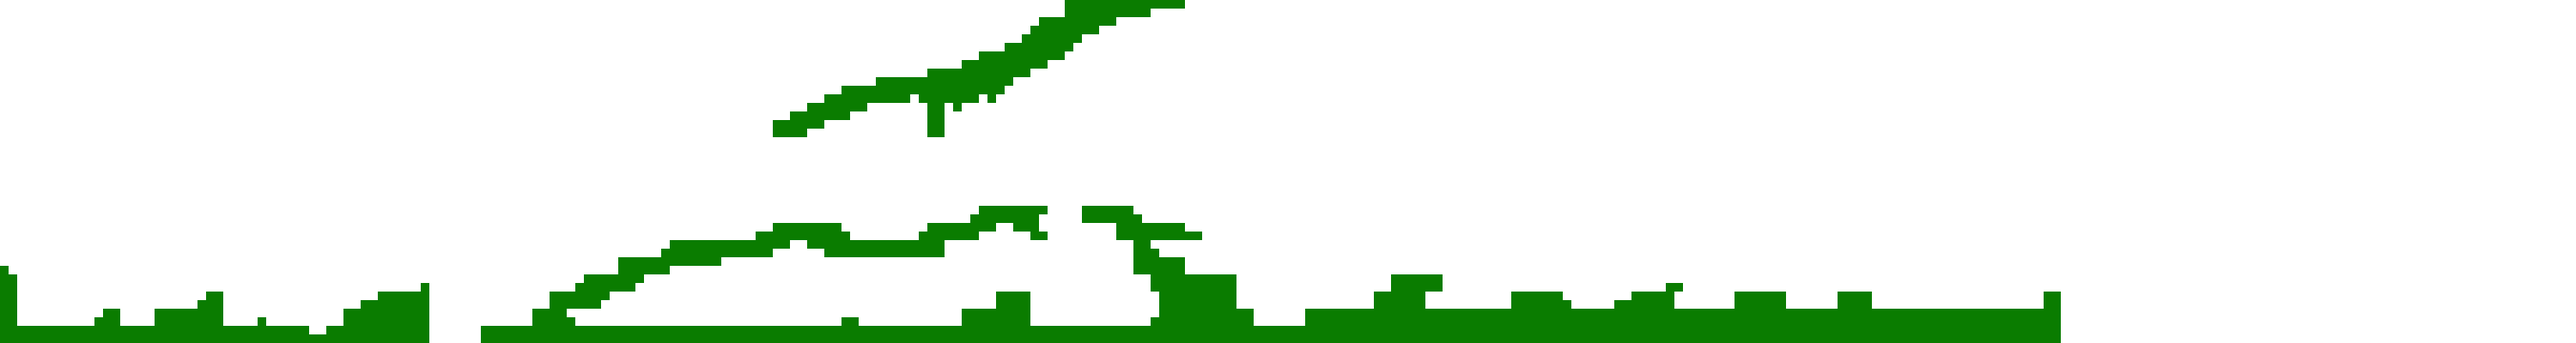
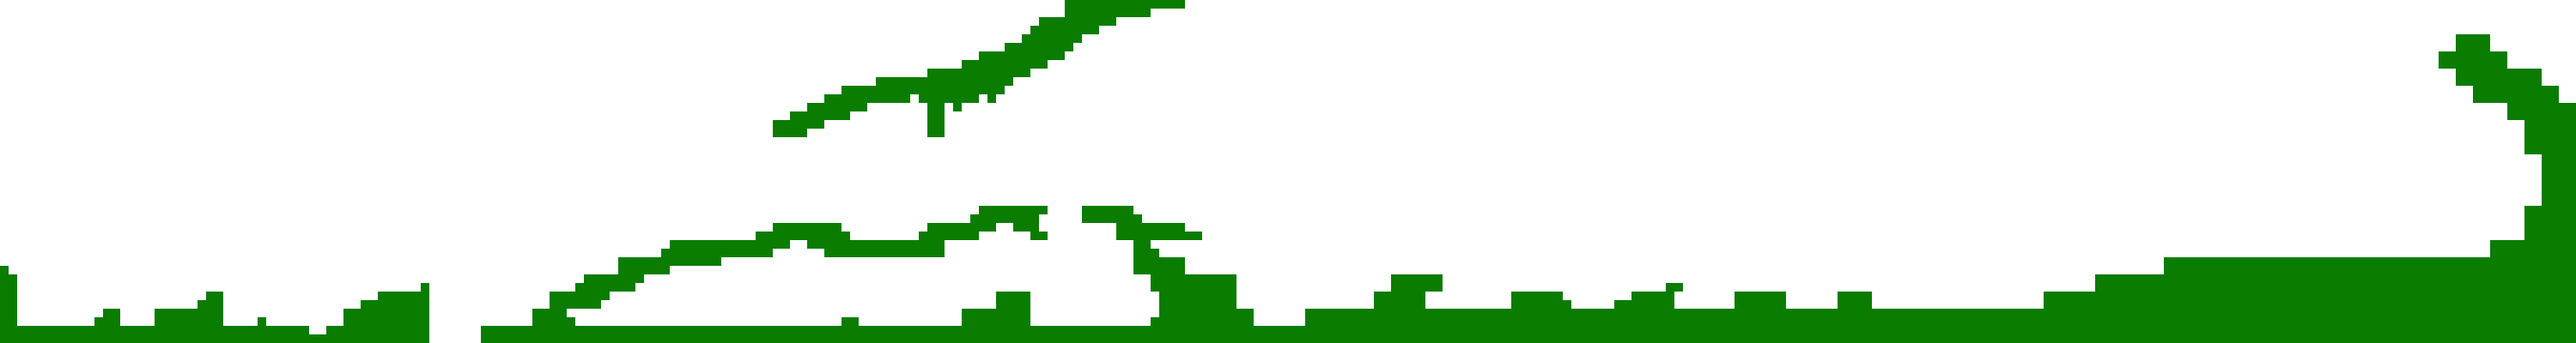
WormBoss added.

Changed region(s): [[0.775, 0.09, 1.0, 1.0]]

diff --git a/src/utils/Map.js b/src/utils/Map.js
@@ -164,6 +164,11 @@ Map.prototype.readGrid = function(){
 					{
 						this.grid[ x ][ y ].content = this.createCharacter( x, y, CHARACTER_BLOB );
 					}
+				case tile.wormboss :
+					if ( this.shouldDraw( x, y ) )
+					{
+						this.grid[ x ][ y ].content = this.createCharacter( x, y, CHARACTER_WORMBOSS );
+					}
 				break;
 				case tile.blobpet :
 					if ( this.shouldDraw( x, y ) )
@@ -310,6 +315,11 @@ Map.prototype.createCharacter = function( x, y, type ){
 			var character = new Blob( {x:x,y:y} );
 			character.drawBody( this.bd, this.ground );
 			break;
+		case CHARACTER_WORMBOSS :
+			var character = new WormBoss( {x:x,y:y} );
+			character.drawBody( this.bd, this.ground );
+			break;
+			
 		case  CHARACTER_BLACKSMITH :
 			character = new Blacksmith();
 			character.drawBody( x, y+1 );

diff --git a/src/utils/Constants.js b/src/utils/Constants.js
@@ -16,6 +16,7 @@ CHARACTER_PLAYER = 1;
 CHARACTER_BLOB = 2;
 CHARACTER_BLACKSMITH = 3;
 CHARACTER_BLOBPET = 4;
+CHARACTER_WORMBOSS = 5;
 
 
 CATEGORY_SWORD = 0x0001;
